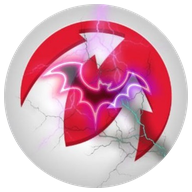
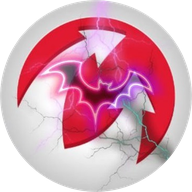
Значок сайту без напівпрозорої облямівки — у Google не буде чорного кільця
Claude-Session: https://claude.ai/code/session_01MCPiJz7rYY279iF9XTWyuA

diff --git a/en/group/index.html b/en/group/index.html
@@ -20,8 +20,8 @@
 <meta name="twitter:card" content="summary_large_image">
 <meta name="twitter:image" content="https://wotboosted.com/og-wotboosted-v2.jpg">
 <meta name="theme-color" content="#e12d3c">
-<link rel="icon" href="/favicon.ico?v=4" sizes="48x48">
-<link rel="icon" type="image/png" sizes="192x192" href="/icon-192.png?v=4">
+<link rel="icon" href="/favicon.ico?v=5" sizes="48x48">
+<link rel="icon" type="image/png" sizes="192x192" href="/icon-192.png?v=5">
 <link rel="apple-touch-icon" sizes="180x180" href="/apple-touch-icon.png?v=4">
 <link rel="preload" href="/fonts/rubik700-cyrillic.woff2" as="font" type="font/woff2" crossorigin>
 <link rel="preload" href="/fonts/wbhead-cyrillic-v2.woff2" as="font" type="font/woff2" crossorigin>

diff --git a/en/modpack/index.html b/en/modpack/index.html
@@ -20,8 +20,8 @@
 <meta name="twitter:card" content="summary_large_image">
 <meta name="twitter:image" content="https://wotboosted.com/og-wotboosted-v2.jpg">
 <meta name="theme-color" content="#e12d3c">
-<link rel="icon" href="/favicon.ico?v=4" sizes="48x48">
-<link rel="icon" type="image/png" sizes="192x192" href="/icon-192.png?v=4">
+<link rel="icon" href="/favicon.ico?v=5" sizes="48x48">
+<link rel="icon" type="image/png" sizes="192x192" href="/icon-192.png?v=5">
 <link rel="apple-touch-icon" sizes="180x180" href="/apple-touch-icon.png?v=4">
 <link rel="preload" href="/fonts/rubik700-cyrillic.woff2" as="font" type="font/woff2" crossorigin>
 <link rel="preload" href="/fonts/wbhead-cyrillic-v2.woff2" as="font" type="font/woff2" crossorigin>

diff --git a/en/settings/index.html b/en/settings/index.html
@@ -20,8 +20,8 @@
 <meta name="twitter:card" content="summary_large_image">
 <meta name="twitter:image" content="https://wotboosted.com/og-wotboosted-v2.jpg">
 <meta name="theme-color" content="#e12d3c">
-<link rel="icon" href="/favicon.ico?v=4" sizes="48x48">
-<link rel="icon" type="image/png" sizes="192x192" href="/icon-192.png?v=4">
+<link rel="icon" href="/favicon.ico?v=5" sizes="48x48">
+<link rel="icon" type="image/png" sizes="192x192" href="/icon-192.png?v=5">
 <link rel="apple-touch-icon" sizes="180x180" href="/apple-touch-icon.png?v=4">
 <link rel="preload" href="/fonts/rubik700-cyrillic.woff2" as="font" type="font/woff2" crossorigin>
 <link rel="preload" href="/fonts/wbhead-cyrillic-v2.woff2" as="font" type="font/woff2" crossorigin>

diff --git a/en/streams/index.html b/en/streams/index.html
@@ -20,8 +20,8 @@
 <meta name="twitter:card" content="summary_large_image">
 <meta name="twitter:image" content="https://wotboosted.com/og-wotboosted-v2.jpg">
 <meta name="theme-color" content="#e12d3c">
-<link rel="icon" href="/favicon.ico?v=4" sizes="48x48">
-<link rel="icon" type="image/png" sizes="192x192" href="/icon-192.png?v=4">
+<link rel="icon" href="/favicon.ico?v=5" sizes="48x48">
+<link rel="icon" type="image/png" sizes="192x192" href="/icon-192.png?v=5">
 <link rel="apple-touch-icon" sizes="180x180" href="/apple-touch-icon.png?v=4">
 <link rel="preload" href="/fonts/rubik700-cyrillic.woff2" as="font" type="font/woff2" crossorigin>
 <link rel="preload" href="/fonts/wbhead-cyrillic-v2.woff2" as="font" type="font/woff2" crossorigin>

diff --git a/en/top-tanks/index.html b/en/top-tanks/index.html
@@ -20,8 +20,8 @@
 <meta name="twitter:card" content="summary_large_image">
 <meta name="twitter:image" content="https://wotboosted.com/og-wotboosted-v2.jpg">
 <meta name="theme-color" content="#e12d3c">
-<link rel="icon" href="/favicon.ico?v=4" sizes="48x48">
-<link rel="icon" type="image/png" sizes="192x192" href="/icon-192.png?v=4">
+<link rel="icon" href="/favicon.ico?v=5" sizes="48x48">
+<link rel="icon" type="image/png" sizes="192x192" href="/icon-192.png?v=5">
 <link rel="apple-touch-icon" sizes="180x180" href="/apple-touch-icon.png?v=4">
 <link rel="preload" href="/fonts/rubik700-cyrillic.woff2" as="font" type="font/woff2" crossorigin>
 <link rel="preload" href="/fonts/wbhead-cyrillic-v2.woff2" as="font" type="font/woff2" crossorigin>

diff --git a/group/index.html b/group/index.html
@@ -20,8 +20,8 @@
 <meta name="twitter:card" content="summary_large_image">
 <meta name="twitter:image" content="https://wotboosted.com/og-wotboosted-v2.jpg">
 <meta name="theme-color" content="#e12d3c">
-<link rel="icon" href="/favicon.ico?v=4" sizes="48x48">
-<link rel="icon" type="image/png" sizes="192x192" href="/icon-192.png?v=4">
+<link rel="icon" href="/favicon.ico?v=5" sizes="48x48">
+<link rel="icon" type="image/png" sizes="192x192" href="/icon-192.png?v=5">
 <link rel="apple-touch-icon" sizes="180x180" href="/apple-touch-icon.png?v=4">
 <link rel="preload" href="/fonts/rubik700-cyrillic.woff2" as="font" type="font/woff2" crossorigin>
 <link rel="preload" href="/fonts/wbhead-cyrillic-v2.woff2" as="font" type="font/woff2" crossorigin>

diff --git a/modpack/index.html b/modpack/index.html
@@ -20,8 +20,8 @@
 <meta name="twitter:card" content="summary_large_image">
 <meta name="twitter:image" content="https://wotboosted.com/og-wotboosted-v2.jpg">
 <meta name="theme-color" content="#e12d3c">
-<link rel="icon" href="/favicon.ico?v=4" sizes="48x48">
-<link rel="icon" type="image/png" sizes="192x192" href="/icon-192.png?v=4">
+<link rel="icon" href="/favicon.ico?v=5" sizes="48x48">
+<link rel="icon" type="image/png" sizes="192x192" href="/icon-192.png?v=5">
 <link rel="apple-touch-icon" sizes="180x180" href="/apple-touch-icon.png?v=4">
 <link rel="preload" href="/fonts/rubik700-cyrillic.woff2" as="font" type="font/woff2" crossorigin>
 <link rel="preload" href="/fonts/wbhead-cyrillic-v2.woff2" as="font" type="font/woff2" crossorigin>

diff --git a/settings/index.html b/settings/index.html
@@ -20,8 +20,8 @@
 <meta name="twitter:card" content="summary_large_image">
 <meta name="twitter:image" content="https://wotboosted.com/og-wotboosted-v2.jpg">
 <meta name="theme-color" content="#e12d3c">
-<link rel="icon" href="/favicon.ico?v=4" sizes="48x48">
-<link rel="icon" type="image/png" sizes="192x192" href="/icon-192.png?v=4">
+<link rel="icon" href="/favicon.ico?v=5" sizes="48x48">
+<link rel="icon" type="image/png" sizes="192x192" href="/icon-192.png?v=5">
 <link rel="apple-touch-icon" sizes="180x180" href="/apple-touch-icon.png?v=4">
 <link rel="preload" href="/fonts/rubik700-cyrillic.woff2" as="font" type="font/woff2" crossorigin>
 <link rel="preload" href="/fonts/wbhead-cyrillic-v2.woff2" as="font" type="font/woff2" crossorigin>

diff --git a/streams/index.html b/streams/index.html
@@ -20,8 +20,8 @@
 <meta name="twitter:card" content="summary_large_image">
 <meta name="twitter:image" content="https://wotboosted.com/og-wotboosted-v2.jpg">
 <meta name="theme-color" content="#e12d3c">
-<link rel="icon" href="/favicon.ico?v=4" sizes="48x48">
-<link rel="icon" type="image/png" sizes="192x192" href="/icon-192.png?v=4">
+<link rel="icon" href="/favicon.ico?v=5" sizes="48x48">
+<link rel="icon" type="image/png" sizes="192x192" href="/icon-192.png?v=5">
 <link rel="apple-touch-icon" sizes="180x180" href="/apple-touch-icon.png?v=4">
 <link rel="preload" href="/fonts/rubik700-cyrillic.woff2" as="font" type="font/woff2" crossorigin>
 <link rel="preload" href="/fonts/wbhead-cyrillic-v2.woff2" as="font" type="font/woff2" crossorigin>

diff --git a/top-tanks/index.html b/top-tanks/index.html
@@ -20,8 +20,8 @@
 <meta name="twitter:card" content="summary_large_image">
 <meta name="twitter:image" content="https://wotboosted.com/og-wotboosted-v2.jpg">
 <meta name="theme-color" content="#e12d3c">
-<link rel="icon" href="/favicon.ico?v=4" sizes="48x48">
-<link rel="icon" type="image/png" sizes="192x192" href="/icon-192.png?v=4">
+<link rel="icon" href="/favicon.ico?v=5" sizes="48x48">
+<link rel="icon" type="image/png" sizes="192x192" href="/icon-192.png?v=5">
 <link rel="apple-touch-icon" sizes="180x180" href="/apple-touch-icon.png?v=4">
 <link rel="preload" href="/fonts/rubik700-cyrillic.woff2" as="font" type="font/woff2" crossorigin>
 <link rel="preload" href="/fonts/wbhead-cyrillic-v2.woff2" as="font" type="font/woff2" crossorigin>

diff --git a/en/index.html b/en/index.html
@@ -18,8 +18,8 @@
 <!-- PWA -->
 <meta name="theme-color" content="#e12d3c">
 <!-- Фавикон -->
-<link rel="icon" href="/favicon.ico?v=4" sizes="48x48">
-<link rel="icon" type="image/png" sizes="192x192" href="/icon-192.png?v=4">
+<link rel="icon" href="/favicon.ico?v=5" sizes="48x48">
+<link rel="icon" type="image/png" sizes="192x192" href="/icon-192.png?v=5">
 <link rel="apple-touch-icon" sizes="180x180" href="/apple-touch-icon.png?v=4">
 <!-- SEO -->
 <meta name="keywords" content="буст WoT, ЛБЗ, відмітки, Майстер, World of Tanks boosting, бої на шкоду, WN8">

diff --git a/index.html b/index.html
@@ -18,8 +18,8 @@
 <!-- PWA -->
 <meta name="theme-color" content="#e12d3c">
 <!-- Фавикон -->
-<link rel="icon" href="/favicon.ico?v=4" sizes="48x48">
-<link rel="icon" type="image/png" sizes="192x192" href="/icon-192.png?v=4">
+<link rel="icon" href="/favicon.ico?v=5" sizes="48x48">
+<link rel="icon" type="image/png" sizes="192x192" href="/icon-192.png?v=5">
 <link rel="apple-touch-icon" sizes="180x180" href="/apple-touch-icon.png?v=4">
 <!-- SEO -->
 <meta name="keywords" content="буст WoT, ЛБЗ, відмітки, Майстер, World of Tanks boosting, бої на шкоду, WN8">
